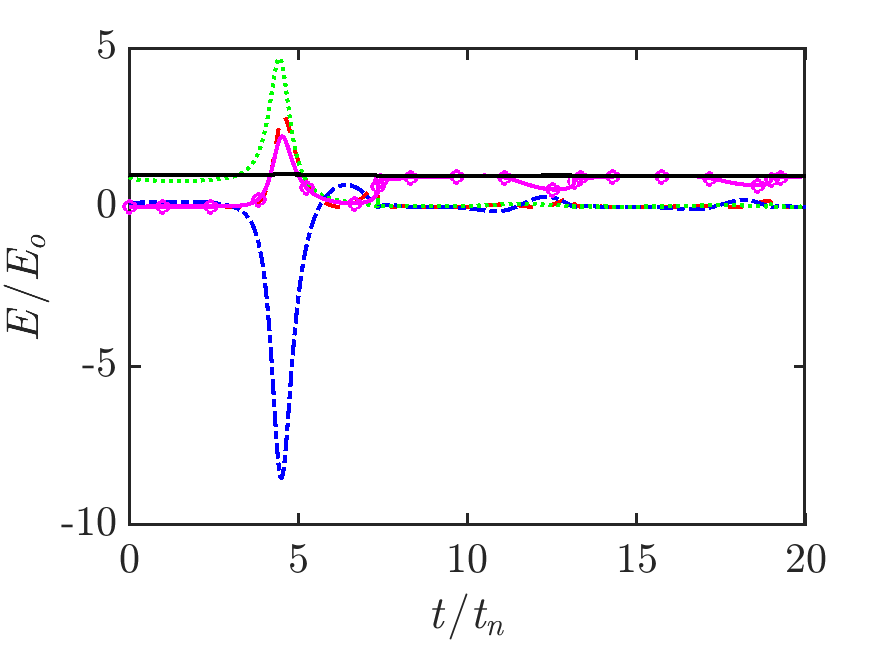
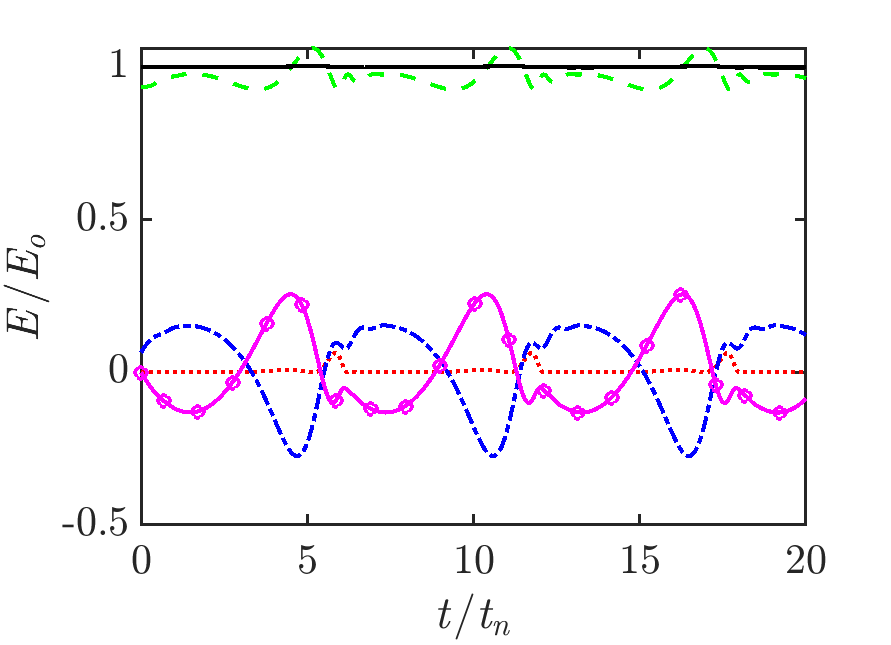
improved the shear stress contours, now in log format, and energy balance

diff --git a/p_ffield.m b/p_ffield.m
@@ -5,60 +5,63 @@ Rdot = Rout(:,2);
 Rdist = Ro_w*ones(lR,lr).*linspace(0,rstarlim,lr);
 % calculating the shear
 sr = f_sfunc(Rdist,R,Rdot,lR,lr);
+vmaterial = 'lsq_blood';
 [mugrid,mu_inf,mu_o,~,~] = f_carreau(vmaterial,sr);
 munon = (mugrid-mu_inf)/(mu_o-mu_inf);
 if mufilter == 1
-    [munon,mugrid,sr] = f_mufilter(munon,mugrid,sr,lR,lr);
+    [munon,mugrid,sr] = f_mufilter(munon,mugrid,sr,lR,lr,mu_inf);
 end
 taugrid = -2*mugrid.*sr;
 tcon = Tout(1:lR)/tRC;
 rcon = Rdist(1,1:lr)'/Ro_w;
 [xcon,ycon] = meshgrid(tcon,rcon);
+ycon = log10(ycon);
 clevels = 50;
 
 % viscosity as a function of r (radial coordinate) plot
 figure(6+contourshift)
+hold on;
+plot(tspan, log10(Roft), lm,'LineWidth',2); 
 contourf(xcon',ycon',munon,clevels,'edgecolor','none')
 colormap jet;
 cbar = colorbar;
 cbar.Label.String = '$\mu$*';
 set(cbar,'TickLabelInterpreter','latex');
 pos = get(cbar,'Position');
-% cbar.Label.Position = [pos(1)*2 pos(2)]; 
+cbar.Label.Position = [pos(1) -.1]; 
 cbar.Label.Rotation = 0;
 cbar.Label.Interpreter = 'latex';
 caxis([0 1]);
 xlabel('\it{t}/$t_n$', 'Interpreter', 'Latex', 'FontSize', 20); 
-ylabel('\it{r}/$R_o$','Interpreter','Latex','FontSize',24);
+ylabel('log$_{10}(\it{r}/R_o)$','Interpreter','Latex','FontSize',24);
 set(gcf,'color','w');
 set(gca,'FontName','Times','FontSize',20);
 set(gca,'TickLabelInterpreter','latex')
 xa = gca;
 xa.TickLength = [.015 .015];
 xa.LineWidth = 1.5;
-xticks([0:0.25:tmag])
-yticks([0:rstarlimtick:rstarlim])
+xticks([0:5:tmag])
+yticks([0:1:log10(rstarlim)])
 box on;
 
 % shear rate as a function of r (radial coordinate) plot
 figure(7+contourshift)
-% plot(tspan, Roft, lm,'LineWidth',2); 
+hold on;
+plot(tspan, log10(Roft), lm,'LineWidth',2); 
 srplot = sr/fnatural;
 contourf(xcon',ycon',srplot,clevels,'edgecolor','none')
-srmax = max(max(srplot));
-srmin = min(min(srplot));
 colormap jet;
 cbar = colorbar;
 set(cbar,'TickLabelInterpreter','latex');
 cbar.Label.String = '$\dot{\varsigma}/f_n$';
 set(cbar,'TickLabelInterpreter','latex');
 pos = get(cbar,'Position');
-cbar.Label.Position = [pos(1) -0.0000008]; 
+caxis([-2E-5 2E-5]);
 cbar.Label.Rotation = 0;
+cbar.Label.Position = [pos(1) -2.5E-5]; 
 cbar.Label.Interpreter = 'latex';
-caxis([srmin srmax]);
 xlabel('\it{t}/$t_n$', 'Interpreter', 'Latex', 'FontSize', 20); 
-ylabel('\it{r}/$R_o$','Interpreter','Latex','FontSize',24);
+ylabel('log$_{10}(\it{r}/R_o)$','Interpreter','Latex','FontSize',24);
 set(gcf,'color','w');
 set(gca,'FontName','Times','FontSize',20);
 set(gca,'TickLabelInterpreter','latex')
@@ -66,27 +69,26 @@ xa = gca;
 xa.TickLength = [.015 .015];
 xa.LineWidth = 1.5;
 xticks([0:5:tmag])
-yticks([0:rstarlimtick:rstarlim])
+% yticks([0:rstarlimtick:rstarlim])
 box on;
 
 % viscous shear stress as a function of r (radial coordinate) plot
 figure(8+contourshift)
-% plot(tspan,Roft, lm,'LineWidth',2); 
+hold on;
 tauplot = taugrid/stress;
 contourf(xcon',ycon',tauplot,clevels,'edgecolor','none')
-taumax = max(max(tauplot));
-taumin = min(min(tauplot));
+plot(tspan,log10(Roft), lm,'LineWidth',2); 
 colormap jet;
 cbar = colorbar;
 cbar.Label.String = '$\tau_{rr}/B$';
 set(cbar,'TickLabelInterpreter','latex');
+caxis([-2E-5 2E-5]);
 pos = get(cbar,'Position');
-cbar.Label.Position = [pos(1) -0.0000016]; 
+cbar.Label.Position = [pos(1) -2.5E-5]; 
 cbar.Label.Rotation = 0;
 cbar.Label.Interpreter = 'latex';
-caxis([taumin taumax]);
 xlabel('\it{t}/$t_n$', 'Interpreter', 'Latex', 'FontSize', 20); 
-ylabel('\it{r}/$R_o$','Interpreter','Latex','FontSize',24);
+ylabel('log$_{10}(\it{r}/R_o)$','Interpreter','Latex','FontSize',24);
 set(gcf,'color','w');
 set(gca,'FontName','Times','FontSize',20);
 set(gca,'TickLabelInterpreter','latex')
@@ -94,5 +96,5 @@ xa = gca;
 xa.TickLength = [.015 .015];
 xa.LineWidth = 1.5;
 xticks([0:5:tmag])
-yticks([0:rstarlimtick:rstarlim])
+% yticks([0:rstarlimtick:rstarlim])
 box on;

diff --git a/f_bubblewall_solver.m b/f_bubblewall_solver.m
@@ -1,4 +1,4 @@
-function [Tout,Rout,Rddot,Pinf] = f_bubblewall_solver(R_eqd,deltap,kappa,f,...
+function [Tout,Rout,Rddot,Pinf,DPinf] = f_bubblewall_solver(R_eqd,deltap,kappa,f,...
     We,Ca,rho,po,pv,c,tfinal,force,rmodel,emodel,vmaterial)
 % FUNCTION THAT SOLVED KELLER MIKSIS FOR MULTIPLE CASES
 % LETTY: YOUR CODE IS A BIT BETTER AT MANAGING VARIABLES, USE YOUR CODE AND
@@ -15,10 +15,11 @@ function [Tout,Rout,Rddot,Pinf] = f_bubblewall_solver(R_eqd,deltap,kappa,f,...
     elseif strcmp('KM',rmodel) == 1
         xi = 1/c;
     end
-    r_dt      = 0;%(pv-po)/(rho*c);       % ICs: initial velocity
+%     r_dt      = (pv-po)/(rho*c);       % ICs: initial velocity
+    r_dt      = 0;       % ICs: initial velocity
     r_initial = [Ro_eq r_dt];             % ICs: initial radius 
     t_span    = [0 tf];                   % time
-    options   = odeset('MaxStep', tfinal/1E3,'AbsTol',1E-9);
+    options   = odeset('MaxStep', tfinal/1E3,'AbsTol',1E-8);
     % Solving the System of ODEs
     [Tout,Rout] = ode15s(@(t,r) bubblewall(t,r,eta,kappa,xi,rho,Ro_eq,...
             S,deltap,f,po,pv,pGo,force,emodel,vmaterial),...
@@ -26,6 +27,7 @@ function [Tout,Rout,Rddot,Pinf] = f_bubblewall_solver(R_eqd,deltap,kappa,f,...
     [Rddot]     = bubblewall_Rddot(Tout,Rout,eta,kappa,xi,rho,Ro_eq,...
         S,deltap,f,po,pv,pGo,force,emodel,vmaterial);
     [Pinf] = pinf(Tout,f,deltap,force,po);
+    [DPinf] = dpa(Tout,f,deltap,force);
 end
  
 function [ dR_dt ] = bubblewall(t,r,eta,k,xi,rho,Req,S,deltap,f,...
@@ -61,7 +63,7 @@ function [ dRdT2 ] = bubblewall_Rddot(t,r,eta,k,xi,rho,Ro,S,deltap,f,...
     end
 %     VIS = 0*VIS;
     SUR = -2*S./(rho.*r1);
-    DPA=-((r1/rho)*xi).*pa(t,f,deltap,force);
+    DPA=-((r1/rho)*xi).*dpa(t,f,deltap,force);
     % GO THROUGH THE MATH AND SHOW ME THAT YOU CAME UP WITH THESE RESULTS  
     if strcmp('NeoH',emodel)==1
         ELS=-(1./rho).*(1+r2.*xi).*(eta/2).*(5-4*(Ro./r1)-(Ro./r1).^4);
@@ -79,10 +81,10 @@ function [ dRdT2 ] = bubblewall_Rddot(t,r,eta,k,xi,rho,Ro,S,deltap,f,...
     dRdT2 = (INE+PINF+PGO+VIS+SUR+ELS+DELS+DPA)./DEN;
 end
 
-function dpa = pa(t,f,deltap,force)
+function dpa = dpa(t,f,deltap,force)
 % PRESSURE DIFFERENCE CALCULATION
  if strcmp('sine',force)==1
-     dpa = deltap*2*pi*f*cos(2*pi*f*t);
+         dpa = deltap*2*pi*f*cos(2*pi*f*(t));
  elseif strcmp('mono',force)==1
      dpa = 0;
  end 
@@ -91,10 +93,9 @@ end
 function p = pinf(t,f,deltap,force,po)
 % FORCING PRESSURE CALCULATION
  if strcmp('sine',force)==1
-     p = deltap*sin(2*pi*f*t);
+         p = deltap*(sin(2*pi*f*(t)));
  elseif strcmp('mono',force)==1
      p = deltap;
  end     
  p = p + po;
 end
-

diff --git a/m_main_energy_sine.m b/m_main_energy_sine.m
@@ -1,7 +1,7 @@
 clear; close all; clc;
 %INPUT PARAMETERS
 Ro_w = 0.5E-6;                      % initial bubble radius = 1E-6  
-Sd  = 0.072;                        % surface tension                
+Sd  = 0.075;                        % surface tension                
 po  = 1E5;                          % atmospheric pressure = 101325
 pv  = 2300;                         % pressure of vapor          
 rho = 1000;                         % density of liquid = 1000      
@@ -11,9 +11,9 @@ pGo=po-pv+(2*Sd)/Ro_w;
 fnatural = (1/(2*pi*Ro_w))*sqrt((3*kappa*(po-pv)+...
     (3*kappa-1)*(2*Sd)/Ro_w)/rho);
 tRC = 1/fnatural;                 % natural period
-tmag = 20.001;
+tmag = 20;
 tfinal=tmag*tRC;                % final time of simulation
-deltap = 5E5;                   % amplitude of wave
+deltap = 0.25E6;                   % amplitude of wave
 f = 2E6; %1/tRC;                 % driving frequecy
 shearmodulus = 0;               % shear modulus of the surounding material
 mu_water = 8.9*10E-4;           % viscosity of water
@@ -29,7 +29,6 @@ emodel = 'NeoH';
 force = 'sine';
 
 %RUNNING AND PLOTTING
-
 %blood inf
 rstarlim = 5;
 rstarres = 80;
@@ -38,10 +37,10 @@ vmaterial = 'lsq_blood';
 mufilter = 0;
 filesuffix = '_energysine';
 contourshift = 1;
-[Tout,Rout,Rddot,Pinf]=f_bubblewall_solver(Ro_w,deltap,kappa,f,We_w,Ca,rho,po,pv,...
-    c,tfinal,force,rmodel,emodel,vmaterial);
-lm = 'g-';
+[Tout,Rout,Rddot,Pinf,DPinf]=f_bubblewall_solver(Ro_w,deltap,kappa,f,...
+    We_w,Ca,rho,po,pv,c,tfinal,force,rmodel,emodel,vmaterial);
+lm = 'k-';
 p_figplot;
 % p_ffield;
-tickrange=[0:5:20];
+tickrange=[0:5:tmag];
 p_figenergy;

diff --git a/f_energy.m b/f_energy.m
@@ -1,4 +1,5 @@
-function [E0,LKE,LPE,BIE,VE,TE] = f_energy(Tout,Rout,Pinf,Sd,rho,pGo,kappa,po,vmaterial,force,f,deltap)
+function [E0,EPD,LKE,LPE,BIE,VE,TE] = f_energy(Tout,Rout,Pinf,DPinf,Sd,rho,...
+    pGo,kappa,po,vmaterial,force)
 %F_ENERGY Summary of this function goes here
 %   Detailed explanation goes here
 
@@ -6,7 +7,6 @@ function [E0,LKE,LPE,BIE,VE,TE] = f_energy(Tout,Rout,Pinf,Sd,rho,pGo,kappa,po,vm
 R = Rout(:,1);
 Rdot = Rout(:,2);
 R0 = R(1,1);
-dt = [diff(Tout);0];
 V  = (4*pi/3)*R.^3;
 V0 = (4*pi/3)*R0^3;
 PG = pGo*(R0./R).^(3*kappa);
@@ -14,27 +14,23 @@ PG = pGo*(R0./R).^(3*kappa);
 if strcmp(force,'mono')==1
     EPD = 0;
 elseif strcmp(force,'sine')==1
-    Dp = 2*pi*f*deltap*cos(2*pi*f*Tout);
-    EPD = cumtrapz(Dp.*V.*dt);
+    EPD = cumtrapz(Tout,DPinf.*V);
 end
 
 LKE = 2*pi*rho*R.^3.*Rdot.^2;
 LPE = Pinf.*V;
-% LPE = 4*pi*Pinf.*Rdot.*R.^2
 BIE = PG.*V/(kappa-1)+Sd*(4*pi*R.^2);
 
-E0 = Pinf(1)*V0+pGo*V0/(kappa-1)+Sd*(4*pi*R0.^2)+EPD;
+E0 = (Pinf(1)+pGo/(kappa-1))*V0+Sd*(4*pi*R0.^2);
 
-ve = Rdot.^2.*R;
 [~,mu_inf,mu_o,nc,lambda] = f_carreau(vmaterial,1);
 if (strcmp('mu_inf',vmaterial) == 1 || strcmp('mu_0',vmaterial) == 1)
-    S = zeros(size(dt));
+    V = zeros(size(dt));
 else
     a = (nc-1)/2;
     V = (mu_inf + (mu_o-mu_inf)*(1+4*lambda^2*(Rdot./R).^2).^a).*Rdot.^2.*R;
-    S = V.*dt;
 end
-VE = 16*pi*cumtrapz(S);
+VE = 16*pi*cumtrapz(Tout,V);
 
-TE  = LKE+LPE+BIE+VE;
+TE  = LKE+LPE+BIE+VE-EPD;
 end

diff --git a/p_figenergy.m b/p_figenergy.m
@@ -1,13 +1,13 @@
-[E0,LKE,LPE,BIE,VE,TE] = f_energy(Tout,Rout,Pinf,Sd,rho,pGo,kappa,po,vmaterial,force,f,deltap);
-% dem = max(TE);
+[E0,EPD,LKE,LPE,BIE,VE,TE] = f_energy(Tout,Rout,Pinf,DPinf,Sd,rho,pGo,kappa,po,...
+    vmaterial,force);
 dem = E0;
 figure(6)
 hold on;
 tstar = Tout*fnatural;
-plot(tstar,LKE./dem,'--r','LineWidth',2)
+plot(tstar,LKE./dem,':r','LineWidth',2)
 plot(tstar,LPE./dem,'-.b','LineWidth',2)
-plot(tstar,BIE./dem,':g','LineWidth',2)
-plot(tstar,VE./dem,'-om','LineWidth',2,'MarkerIndices',1:ceil(length(tstar)/20):length(tstar));
+plot(tstar,BIE./dem,'--g','LineWidth',2)
+plot(tstar,(VE-EPD)./dem,'-om','LineWidth',2,'MarkerIndices',1:ceil(length(tstar)/20):length(tstar));
 plot(tstar,TE./dem,'k','LineWidth',2)
 xlabel('$\it{t}/t_{n}$', 'Interpreter', 'Latex', 'FontSize', 20); 
 ylabel('$\it{E}/E_o$', 'Interpreter', 'Latex', 'FontSize', 20); 
@@ -21,7 +21,7 @@ xa = gca;
 xa.TickLength = [.015 .015];
 xa.LineWidth = 1.5;
 xticks(tickrange)
-% ylim([0 1.1])
+xlim([0 tmag])
 box on;
 fn = strcat('./analysisfigs/f_energybwall',filesuffix);
 saveas(gcf,fn,'png')

diff --git a/f_mufilter.m b/f_mufilter.m
@@ -1,17 +1,22 @@
-function [munon,mugrid,sr] = f_mufilter(munon,mugrid,sr,N,M)
+function [munon,mugrid,sr] = f_mufilter(munon,mugrid,sr,N,M,mu_inf)
 %F_MUFILTER Summary of this function goes here
 %   Detailed explanation goes here
-
+% eps = 0.00001;
+eps = 0.01;
+val = mu_inf;
 for i = 1:N
     for j = 1:M
-        if munon(i,j) > 0.9
+        if munon(i,j) > 1-eps
             munon(i,j) = NaN;
             mugrid(i,j) = NaN;
             sr(i,j) = NaN;
-        elseif munon(i,j) < 0.1
+        elseif munon(i,j) < eps
             munon(i,j) = NaN;
             mugrid(i,j) = NaN;
             sr(i,j) = NaN;
+        else
+            munon(i,j) = 0;
+            mugrid(i,j) = val;
         end
     end
 end

diff --git a/m_main_baseline_muinf.m b/m_main_baseline_muinf.m
@@ -27,16 +27,17 @@ p_figsetup;
 rmodel = 'RP';
 emodel = 'NeoH';
 force = 'sine';
-filesuffix = '_baseline';
+filesuffix = '_baseline_muinf';
 %RUNNING AND PLOTTING
+
 % blood carreau
 rstarlim = 1000;
 rstarres = 1;
 rstarlimtick = 10;
 mufilter = 1;
-vmaterial = 'lsq_blood';
+vmaterial = 'mu_inf';
 contourshift = 1;
-[Tout,Rout,Rddot,Pinf]=f_bubblewall_solver(Ro_w,deltap,kappa,f,We_w,Ca,rho,po,pv,...
+[Tout,Rout,Rddot,Pinf,DPinf]=f_bubblewall_solver(Ro_w,deltap,kappa,f,We_w,Ca,rho,po,pv,...
     c,tfinal,force,rmodel,emodel,vmaterial);
 lm = 'k-';
 p_figplot;

diff --git a/p_figsetup.m b/p_figsetup.m
@@ -14,6 +14,7 @@ xa = gca;
 xa.TickLength = [.03 .03];
 xa.LineWidth = 1.5;
 xticks(tickrange)
+xlim([0 tmag])
 box on;
 
 figure(2)
@@ -30,6 +31,7 @@ xa = gca;
 xa.TickLength = [.03 .03];
 xa.LineWidth = 1.5;
 xticks(tickrange)
+xlim([0 tmag])
 % ylim([-1.5 1.5]*1E-5)
 box on;
 
@@ -48,6 +50,7 @@ xa = gca;
 xa.TickLength = [.03 .03];
 xa.LineWidth = 1.5;
 xticks(tickrange)
+xlim([0 tmag])
 box on;
 
 figure(4)
@@ -64,6 +67,7 @@ xa = gca;
 xa.TickLength = [.03 .03];
 xa.LineWidth = 1.5;
 xticks(tickrange)
+xlim([0 tmag])
 box on;
 
 figure(5)

diff --git a/m_main_energy_mono.m b/m_main_energy_mono.m
@@ -40,7 +40,7 @@ vmaterial = 'lsq_blood';
 mufilter = 0;
 filesuffix = '_energymono';
 contourshift = 1;
-[Tout,Rout,Rddot,Pinf]=f_bubblewall_solver(Ro_w,deltap,kappa,f,We_w,Ca,rho,po,pv,...
+[Tout,Rout,Rddot,Pinf,DPinf]=f_bubblewall_solver(Ro_w,deltap,kappa,f,We_w,Ca,rho,po,pv,...
     c,tfinal,force,rmodel,emodel,vmaterial);
 lm = 'g-';
 p_figplot;
